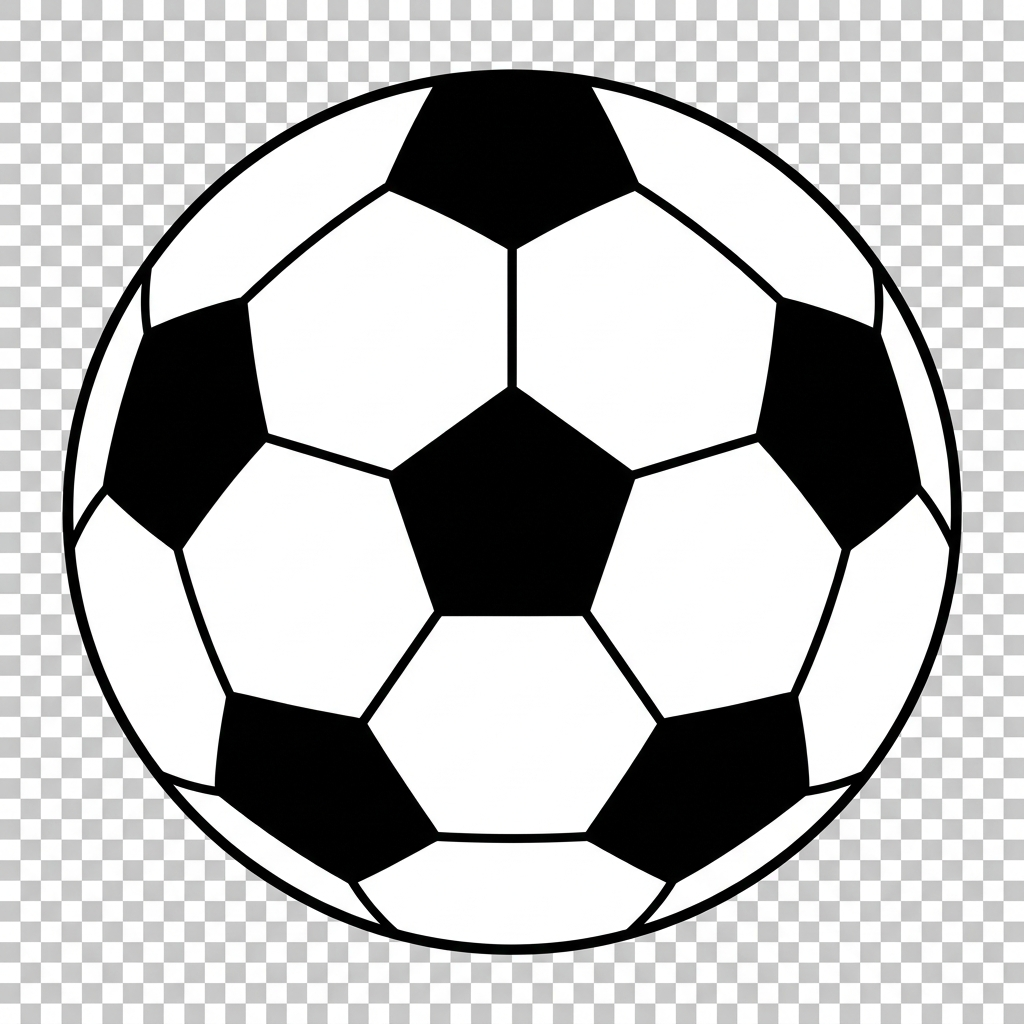
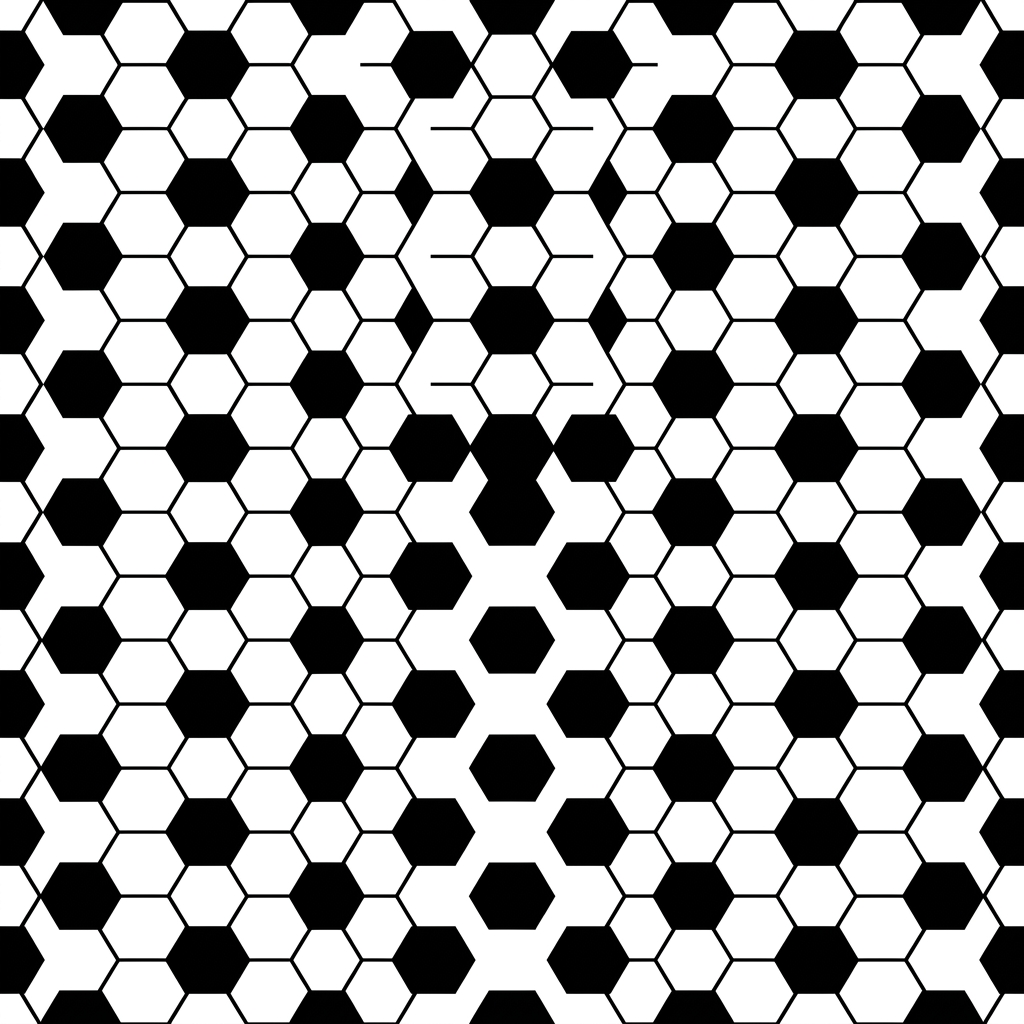
feat: replace ball_1.png with infinite repeating hexagon pattern and implement CanvasPattern translation

diff --git a/js/entities/ball.js b/js/entities/ball.js
@@ -123,26 +123,49 @@ export class Ball {
         ctx.arc(0, 0, renderRadius, 0, Math.PI * 2);
         ctx.clip(); // Limita todo el dibujo a la silueta circular de la esfera
         
-        // Rotación del eje Z (spin / rosca)
-        ctx.rotate(this.rotationAngle);
-        
-        // Desplazamiento dinámico de la textura alineado con la dirección del movimiento (rodamiento 3D direccional)
-        const speed = Math.sqrt(this.vx * this.vx + this.vy * this.vy);
-        const moveAngle = speed > 0.1 ? Math.atan2(this.vy, this.vx) : 0;
-        
-        // Oscilación sinusoidal direccional continua y suave sin saltos para la textura interna
-        const shiftAmp = renderRadius * 0.22;
-        const shiftDist = Math.sin(this.rollDistance / (this.radius * 0.85)) * shiftAmp;
-        const shiftX = -Math.cos(moveAngle) * shiftDist;
-        const shiftY = -Math.sin(moveAngle) * shiftDist;
-        
-        // Escalamos un poco más la textura interna (1.5x) para que al desplazarse por rodadura nunca exponga bordes transparentes
-        const texSize = renderRadius * 1.5;
-        
         if (this.img && this.img.complete) {
-            ctx.drawImage(this.img, -texSize + shiftX, -texSize + shiftY, texSize * 2, texSize * 2);
+            ctx.save(); // Para las transformaciones de la textura
+            
+            // Calculamos la escala idónea del patrón para que las celdas hexagonales
+            // se ajusten armoniosamente al tamaño del balón
+            const patternScale = (renderRadius * 2.3) / this.img.width;
+            
+            // Dirección del movimiento y velocidad para el rodamiento continuo e infinito
+            const speed = Math.sqrt(this.vx * this.vx + this.vy * this.vy);
+            const moveAngle = speed > 0.1 ? Math.atan2(this.vy, this.vx) : 0;
+            
+            // Desplazamiento lineal infinito en la dirección del movimiento
+            const shiftX = -Math.cos(moveAngle) * this.rollDistance;
+            const shiftY = -Math.sin(moveAngle) * this.rollDistance;
+            
+            // 1. Escalar el contexto al tamaño del patrón
+            ctx.scale(patternScale, patternScale);
+            
+            // 2. Trasladar según la rodadura física en el espacio escalado
+            ctx.translate(shiftX / patternScale, shiftY / patternScale);
+            
+            // 3. Rotar según el spin (rosca Z)
+            ctx.rotate(this.rotationAngle);
+            
+            // Crear el patrón repetitivo rectangular infinito
+            const pattern = ctx.createPattern(this.img, 'repeat');
+            ctx.fillStyle = pattern;
+            
+            // Rellenar un área grande que cubra con creces la esfera clipada
+            const fillSize = (renderRadius * 4) / patternScale;
+            ctx.fillRect(-fillSize, -fillSize, fillSize * 2, fillSize * 2);
+            
+            ctx.restore(); // Restaura transformaciones de la textura
         } else {
-            // Fallback con formas vectoriales
+            // Fallback vectorial con sombreado
+            ctx.save();
+            const speed = Math.sqrt(this.vx * this.vx + this.vy * this.vy);
+            const moveAngle = speed > 0.1 ? Math.atan2(this.vy, this.vx) : 0;
+            const shiftAmp = renderRadius * 0.22;
+            const shiftDist = Math.sin(this.rollDistance / (this.radius * 0.85)) * shiftAmp;
+            const shiftX = -Math.cos(moveAngle) * shiftDist;
+            const shiftY = -Math.sin(moveAngle) * shiftDist;
+            
             ctx.beginPath();
             ctx.arc(shiftX, shiftY, renderRadius, 0, Math.PI * 2);
             ctx.fillStyle = 'white';
@@ -155,6 +178,7 @@ export class Ball {
             ctx.beginPath(); ctx.arc(shiftX, -renderRadius / 2 + shiftY, renderRadius / 3, 0, Math.PI * 2); ctx.fill();
             ctx.beginPath(); ctx.arc(renderRadius / 2 + shiftX, renderRadius / 3 + shiftY, renderRadius / 3.5, 0, Math.PI * 2); ctx.fill();
             ctx.beginPath(); ctx.arc(-renderRadius / 2 + shiftX, renderRadius / 3 + shiftY, renderRadius / 3.5, 0, Math.PI * 2); ctx.fill();
+            ctx.restore();
         }
         
         ctx.restore(); // Eliminamos la máscara de recorte (mantiene la traslación de Z)